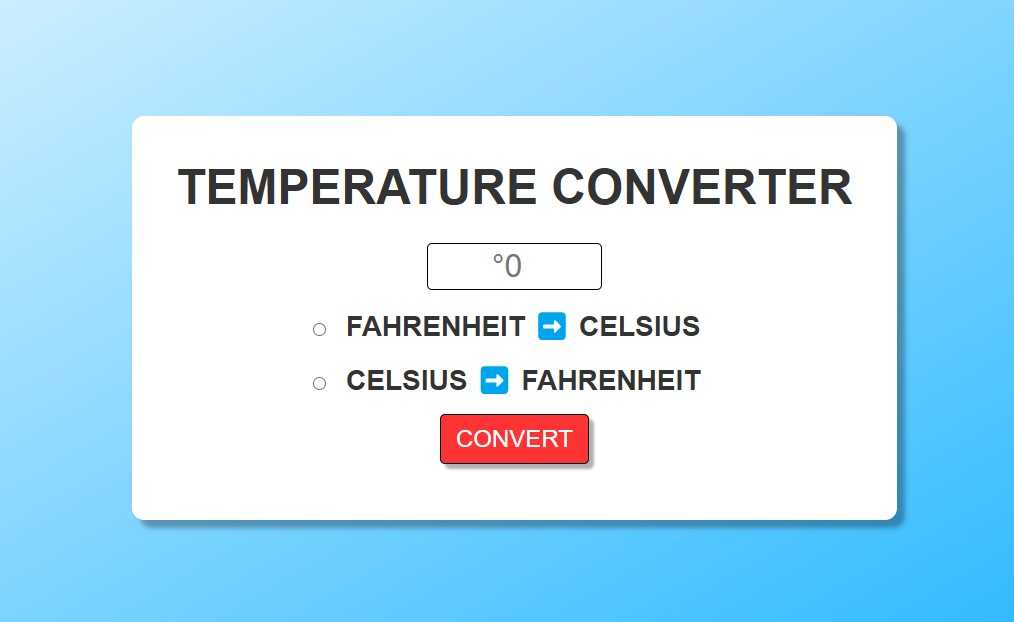
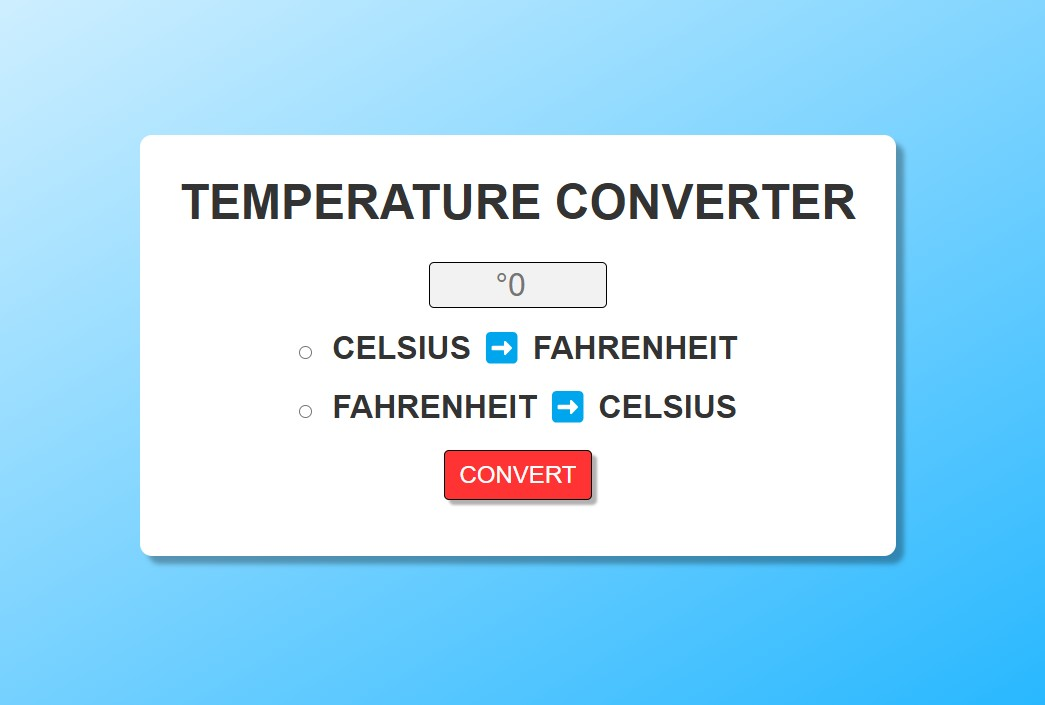
Fixed mobile responsiveness

Changed region(s): [[0.1223, 0.1833, 0.9172, 0.8553]]

diff --git a/assets/css/style.css b/assets/css/style.css
@@ -4,7 +4,6 @@
   margin: 0;
   padding: 0;
   box-sizing: border-box;
-  /* border: 1px solid red; */
 }
 
 html {
@@ -15,6 +14,7 @@ html {
 
 body {
   margin: 1.5rem;
+  overflow: hidden;
   min-height: 100%;
   text-align: center;
   color: hsl(0, 0%, 20%);
@@ -28,8 +28,8 @@ body {
 
 form {
   width: 100%;
-  padding: 1.5rem;
   margin: 0 auto;
+  padding: 1.5rem;
   max-width: 850px;
   max-width: 1200px;
   border-radius: 12px;
@@ -38,29 +38,36 @@ form {
 }
 
 h1 {
-  padding: 1rem;
-  margin: 0.75rem;
+  margin: 1rem;
   font-size: 3rem;
 }
 
 #textBox {
   margin: 1rem;
   max-width: 25%;
+  padding: 0.2rem;
   font-size: 2rem;
-  padding: 0.25rem;
   text-align: center;
   border-radius: 5px;
   border: 1px solid black;
+  background-color: hsl(0, 0%, 95%);
+}
+
+input {
+  margin-right: 1rem;
 }
 
 label {
-  margin: 1rem;
+  font-size: 2rem;
   font-weight: bold;
-  font-size: 1.75rem;
 }
 
-#toCelsius, #toFahrenheit {
+#toFahrenheit {
   margin-bottom: 1.5rem;
+}
+
+#toCelsius {
+  margin-bottom: 2rem;
 }
 
 button {
@@ -70,7 +77,7 @@ button {
   font-size: 1.5em;
   padding: 10px 15px;
   border-radius: 5px;
-  margin-bottom: 1.5rem;
+  margin-bottom: 2rem;
   border: 1px solid black;
   background-color: hsl(0, 100%, 60%);
   box-shadow: 5px 5px 3px hsla(0, 0%, 0%, 0.3);
@@ -83,6 +90,7 @@ button:hover {
 }
 
 #result {
+  font-weight: bold;
   font-size: 2em;
 }
 
@@ -91,32 +99,27 @@ button:hover {
 }
 
 @media (max-width: 480px) {
-  form {
-    padding: 1rem;
-  }
-
   h1 {
-    padding: 0rem;
     margin: 0.25rem;
     font-size: 2rem;
   }
 
   #textBox {
-    margin: 0.75rem;
     font-size: 1.5rem;
   }
 
   label {
-    font-size: 1rem;
+    font-size: 1.25rem;
+    margin: 0;
   }
 
   button {
-    margin: 0;
-    font-size: 0.75em;
+    font-size: 1rem;
+    margin-bottom: 0;
   }
 
   #result {
-    margin: 20px;
-    font-size: 1.25em;
+    margin-top: 1.5rem;
+    font-size: 1.5rem;
   }
 }

diff --git a/assets/js/script.js b/assets/js/script.js
@@ -11,16 +11,16 @@ let temperature;
 function convert(event) {
   // Prevent the page from refreshing
   event.preventDefault();
-  // If user wants to convert from celsius to fahrenheit
-  if (toFahrenheit.checked) {
-    temperature = Number(textBox.value);
-    temperature = (temperature * 9) / 5 + 32;
-    result.textContent = temperature.toFixed(1) + " °Fahrenheit";
-    // If user wants to convert from fahrenheit to celsius
-  } else if (toCelsius.checked) {
+  // If user wants to convert from fahrenheit to celsius
+  if (toCelsius.checked) {
     temperature = Number(textBox.value);
     temperature = (temperature - 32) * (5 / 9);
     result.textContent = temperature.toFixed(1) + " °Celsius";
+    // If user wants to convert from celsius to fahrenheit
+  } else if (toFahrenheit.checked) {
+    temperature = Number(textBox.value);
+    temperature = (temperature * 9) / 5 + 32;
+    result.textContent = temperature.toFixed(1) + " °Fahrenheit";
     // If user has not selected a conversion type
   } else {
     result.textContent = "SELECT A UNIT!";

diff --git a/index.html b/index.html
@@ -9,17 +9,17 @@
 </head>
 
 <body>
-  <main class="container">
+  <main>
     <form>
       <!-- Title -->
       <h1>TEMPERATURE CONVERTER</h1>
       <input type="number" id="textBox" placeholder="°0" autocomplete="off"><br>
-      <!-- Fahrenheit to Celsius Button -->
-      <input type="radio" id="toCelsius" name="unit">
-      <label for="toCelsius">FAHRENHEIT ➡ CELSIUS</label><br>
       <!-- Celsius to Fahrenheit Button -->
       <input type="radio" id="toFahrenheit" name="unit">
       <label for="toFahrenheit">CELSIUS ➡ FAHRENHEIT</label><br>
+      <!-- Fahrenheit to Celsius Button -->
+      <input type="radio" id="toCelsius" name="unit">
+      <label for="toCelsius">FAHRENHEIT ➡ CELSIUS</label><br>
       <!-- Convert Button -->
       <button id="submitBtn">CONVERT</button>
       <p id="result" class="hidden"></p>
